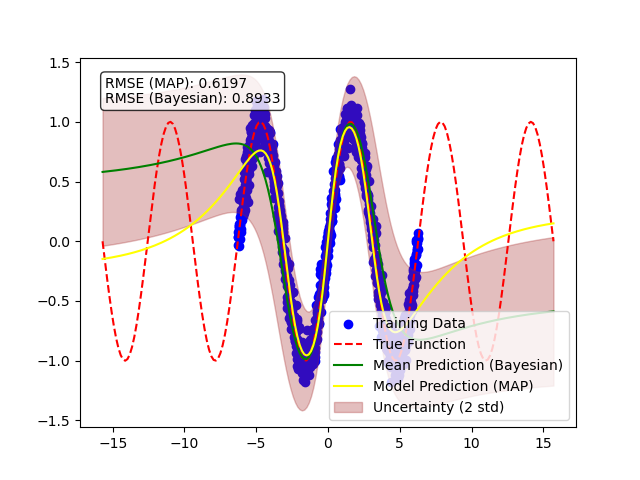
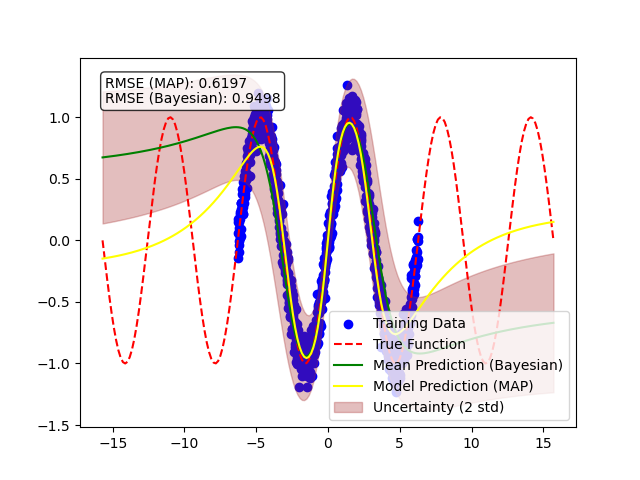
added metrics for Sine model

diff --git a/main.py b/main.py
@@ -1,3 +1,4 @@
+import json
 import models.sinemodel as sinemodel
 import models.mnistmodel as mnistmodel
 from data import generate_sine_data, load_MNIST_data
@@ -5,11 +6,9 @@ from train import train_mnist, train_sine
 import torch
 from matplotlib import pyplot as plt
 import numpy as np
-from sklearn.metrics import mean_squared_error
 from plots import plot_model, plot_bayesian_model_samples, plot_bayesian_model_predictions
 import os
-
-from utils import disassemble_data_loader, sample_from_posterior
+from utils import disassemble_data_loader, sample_from_posterior, save_metrics
 
 SINE_MODEL_PATH="results/models/sine_net.pth"
 MNIST_MODEL_PATH="results/models/mnist_fc.pth"
@@ -35,11 +34,9 @@ def lla_inference(model, x_train, y_train):
     y_test_pred = model(x_test).detach().numpy()  # MAP model predictions
     mean_pred, var_pred = sinemodel.bayesian_prediction(model, theta_samples, x_test)
 
-    rmse_map = np.sqrt(mean_squared_error(y_test_true, y_test_pred))
-    rmse_bayesian = np.sqrt(mean_squared_error(y_test_true, mean_pred))
-
-    print(f"RMSE (MAP Model): {rmse_map:.4f}")
-    print(f"RMSE (Bayesian Mean Model): {rmse_bayesian:.4f}")
+    metrics = save_metrics(y_test_pred, mean_pred, var_pred, y_test_true, "results/metrics/sine_lla_metrics.json")
+    rmse_map = metrics["MAP"]["RMSE"]
+    rmse_bayesian = metrics["Bayesian"]["RMSE"]
 
     plot_bayesian_model_samples(model, theta_samples, x_test, posterior="qLLA")
     plot_bayesian_model_predictions(x_train, y_train, x_test, y_test_true, y_test_pred, mean_pred, var_pred, rmse_map, rmse_bayesian, posterior="qLLA")
@@ -48,7 +45,7 @@ def lla_inference(model, x_train, y_train):
     torch.nn.utils.vector_to_parameters(original_params, model.parameters())
     model.eval()
 
-def lla_inferece_mnist(model, train_loader, test_loader):
+def lla_inference_mnist(model, train_loader, test_loader):
     model.to(DEVICE)
     model.eval()
 
@@ -109,11 +106,9 @@ def projected_posterior_inference(model, x_train, y_train):
     y_test_pred = model(x_test).detach().numpy()  # MAP model predictions
     mean_pred, var_pred = sinemodel.bayesian_prediction(model, theta_samples, x_test)
 
-    rmse_map = np.sqrt(mean_squared_error(y_test_true, y_test_pred))
-    rmse_bayesian = np.sqrt(mean_squared_error(y_test_true, mean_pred))
-
-    print(f"RMSE (MAP Model): {rmse_map:.4f}")
-    print(f"RMSE (Bayesian Mean Model): {rmse_bayesian:.4f}")
+    metrics = save_metrics(y_test_pred, mean_pred, var_pred, y_test_true, "results/metrics/sine_projected_posterior_metrics.json")
+    rmse_map = metrics["MAP"]["RMSE"]
+    rmse_bayesian = metrics["Bayesian"]["RMSE"]
 
     plot_bayesian_model_samples(model, theta_samples, x_test, posterior="qPROJ")
     plot_bayesian_model_predictions(x_train, y_train, x_test, y_test_true, y_test_pred, mean_pred, var_pred, rmse_map, rmse_bayesian, posterior="qPROJ")
@@ -141,11 +136,9 @@ def loss_posterior_inference(model, x_train, y_train):
     y_test_pred = model(x_test).detach().numpy()  # MAP model predictions
     mean_pred, var_pred = sinemodel.bayesian_prediction(model, theta_samples, x_test)
 
-    rmse_map = np.sqrt(mean_squared_error(y_test_true, y_test_pred))
-    rmse_bayesian = np.sqrt(mean_squared_error(y_test_true, mean_pred))
-
-    print(f"RMSE (MAP Model): {rmse_map:.4f}")
-    print(f"RMSE (Bayesian Mean Model): {rmse_bayesian:.4f}")
+    metrics = save_metrics(y_test_pred, mean_pred, var_pred, y_test_true, "results/metrics/sine_loss_posterior_metrics.json")
+    rmse_map = metrics["MAP"]["RMSE"]
+    rmse_bayesian = metrics["Bayesian"]["RMSE"]
 
     plot_bayesian_model_samples(model, theta_samples, x_test, posterior="qLOSS")
     plot_bayesian_model_predictions(x_train, y_train, x_test, y_test_true, y_test_pred, mean_pred, var_pred, rmse_map, rmse_bayesian, posterior="qLOSS")
@@ -166,8 +159,8 @@ def run_sine_experiment():
     model.eval()
     plot_model(model=model, x_train=x_train, y_train=y_train)
 
-    lla_inference(model, x_train, y_train)
-    projected_posterior_inference(model, x_train, y_train)
+    #lla_inference(model, x_train, y_train)
+    #projected_posterior_inference(model, x_train, y_train)
     loss_posterior_inference(model, x_train, y_train)
 
 def run_MNIST_experiment():
@@ -179,8 +172,8 @@ def run_MNIST_experiment():
         model.load_state_dict(torch.load(MNIST_MODEL_PATH))
     
     model.eval()
-    lla_inferece_mnist(model, train_data, test_data)
+    lla_inference_mnist(model, train_data, test_data)
 
 if __name__ == "__main__":
-    #run_sine_experiment()
-    run_MNIST_experiment()
+    run_sine_experiment()
+    #run_MNIST_experiment()

diff --git a/metrics.py b/metrics.py
@@ -1,0 +1,96 @@
+import numpy as np
+from scipy.stats import norm
+from sklearn.metrics import root_mean_squared_error
+
+def compute_rmse(y_true, y_pred):
+    """Compute Root Mean Squared Error (RMSE) using sklearn."""
+    return root_mean_squared_error(y_true, y_pred)
+
+
+def compute_regression_nll(mu, sigma, y_true, eps=1e-6):
+    """
+    Compute Negative Log-Likelihood (NLL) for Bayesian regression.
+
+    Parameters:
+    - mu: np.ndarray of shape (N,) - Predicted means
+    - sigma: np.ndarray of shape (N,) - Predicted standard deviations
+    - y_true: np.ndarray of shape (N,) - True values
+    - eps: float - Small value to prevent log(0)
+
+    Returns:
+    - nll: float - Mean Negative Log-Likelihood over all predictions
+    """
+    sigma = np.clip(sigma, a_min=eps, a_max=None)  # Avoid zero std
+    nll = 0.5 * np.log(2 * np.pi * sigma**2) + ((y_true - mu) ** 2) / (2 * sigma**2)
+    return np.mean(nll)
+
+
+def compute_sharpness(sigma):
+    """
+    Compute sharpness: average predictive standard deviation.
+
+    Parameters:
+    - sigma: np.ndarray of predicted std devs
+
+    Returns:
+    - sharpness: float
+    """
+    return np.mean(sigma)
+
+
+def compute_coverage(mu, sigma, y_true, confidence=0.9):
+    """
+    Compute coverage: % of true values inside the predicted confidence interval.
+
+    Parameters:
+    - mu: np.ndarray of predicted means
+    - sigma: np.ndarray of predicted std devs
+    - y_true: np.ndarray of true targets
+    - confidence: float (e.g., 0.9 for 90%)
+
+    Returns:
+    - coverage: float (fraction of y_true inside the interval)
+    """
+    z = norm.ppf(0.5 + confidence / 2)
+    lower = mu - z * sigma
+    upper = mu + z * sigma
+    covered = ((y_true >= lower) & (y_true <= upper)).sum()
+    return covered / len(y_true)
+
+def compute_regression_ece(mu, sigma, y_true, alphas=None):
+    """
+    Compute Expected Calibration Error (ECE) for Bayesian regression models.
+
+    Parameters:
+    - mu: np.ndarray of shape (N,) - Predicted means
+    - sigma: np.ndarray of shape (N,) - Predicted standard deviations
+    - y_true: np.ndarray of shape (N,) - True values
+    - alphas: List of confidence levels (e.g., [0.1, 0.2, ..., 0.9])
+
+    Returns:
+    - ece: float - Expected Calibration Error
+    - coverage_list: list - Actual coverage per alpha
+    """
+
+    if alphas is None:
+        alphas = np.linspace(0.1, 0.9, 9)
+
+    N = len(mu)
+    ece = 0.0
+    coverage_list = []
+
+    for alpha in alphas:
+        z = norm.ppf(0.5 + alpha / 2)  # Symmetric interval around mean
+        lower = mu - z * sigma
+        upper = mu + z * sigma
+
+        # Count how many true values fall within the interval
+        covered = ((y_true >= lower) & (y_true <= upper)).sum()
+        coverage = covered / N
+        coverage_list.append(coverage)
+
+        ece += abs(coverage - alpha)
+
+    ece /= len(alphas)
+    return ece, list(zip(alphas, coverage_list))
+

diff --git a/utils.py b/utils.py
@@ -1,5 +1,10 @@
+import json
+import numpy as np
 import torch
 import torch.nn.functional as F
+from metrics import (
+    compute_coverage, compute_regression_ece, compute_regression_nll, compute_rmse, compute_sharpness
+)
 
 def compute_model_jacobian_params(model, x_train):
     """
@@ -189,3 +194,44 @@ def disassemble_data_loader(data_loader):
     y_train = torch.cat(y_list, dim=0)  # Full training labels
     
     return x_train, y_train
+
+def save_metrics(y_test_pred, mean_pred, var_pred, y_test_true, path):
+    # MAP metrics
+    rmse_map = compute_rmse(y_test_true, y_test_pred)
+
+    # Bayesian model metrics
+    rmse_bayesian = compute_rmse(y_test_true, mean_pred)
+    nll_bayesian = compute_regression_nll(mean_pred, np.sqrt(var_pred), y_test_true)
+    ece_bayesian, coverage_per_alpha = compute_regression_ece(mean_pred, np.sqrt(var_pred), y_test_true)
+    sharpness_bayesian = compute_sharpness(np.sqrt(var_pred))
+    coverage__bayesian = compute_coverage(mean_pred, np.sqrt(var_pred), y_test_true)
+
+    print(f"RMSE (MAP Model): {rmse_map:.4f}")
+    print(f"RMSE (Bayesian Mean Model): {rmse_bayesian:.4f}")
+    print(f"NLL (Bayesian Model): {nll_bayesian:.4f}")
+    print(f"ECE (Bayesian Model): {ece_bayesian:.4f}")
+
+    # Save the metrics
+    metrics = {
+        "MAP": {
+            "RMSE": float(rmse_map)
+        },
+        "Bayesian": {
+            "RMSE": float(rmse_bayesian),
+            "NLL": float(nll_bayesian),
+            "ECE": float(ece_bayesian),
+            "Sharpness": float(sharpness_bayesian),
+            "Coverage@90": float(coverage__bayesian),
+            "Coverage_per_alpha": [
+                {
+                    "confidence": float(alpha),
+                    "empirical_coverage": float(cov)
+                }
+                for alpha, cov in coverage_per_alpha
+            ]
+        }
+    }
+    with open(path, "w") as f:
+        json.dump(metrics, f, indent=4)
+
+    return metrics

diff --git a/models/sinemodel.py b/models/sinemodel.py
@@ -50,7 +50,7 @@ def compute_q_lla(model, x_train, y_train, alpha=10.0):
     return theta_map, covariance
 
 #TODO: When I left Alpha at 10, the model was super underfit. 50 seemed to work better, but why?
-def compute_q_proj(model, x_train, y_train, alpha=50.0):
+def compute_q_proj(model, x_train, y_train, alpha=20.0):
     """
     Computes the q_proj posterior for a trained model using the null space of the GGN matrix.
     
@@ -90,7 +90,7 @@ def compute_q_proj(model, x_train, y_train, alpha=50.0):
 
     return theta_map, projected_covariance
 
-def compute_q_loss(model, x_train, y_train, alpha=10.0):
+def compute_q_loss(model, x_train, y_train, alpha=3.0):
     """
     Computes the q_loss posterior for a trained model using the Loss-Jacobian approach.
     
